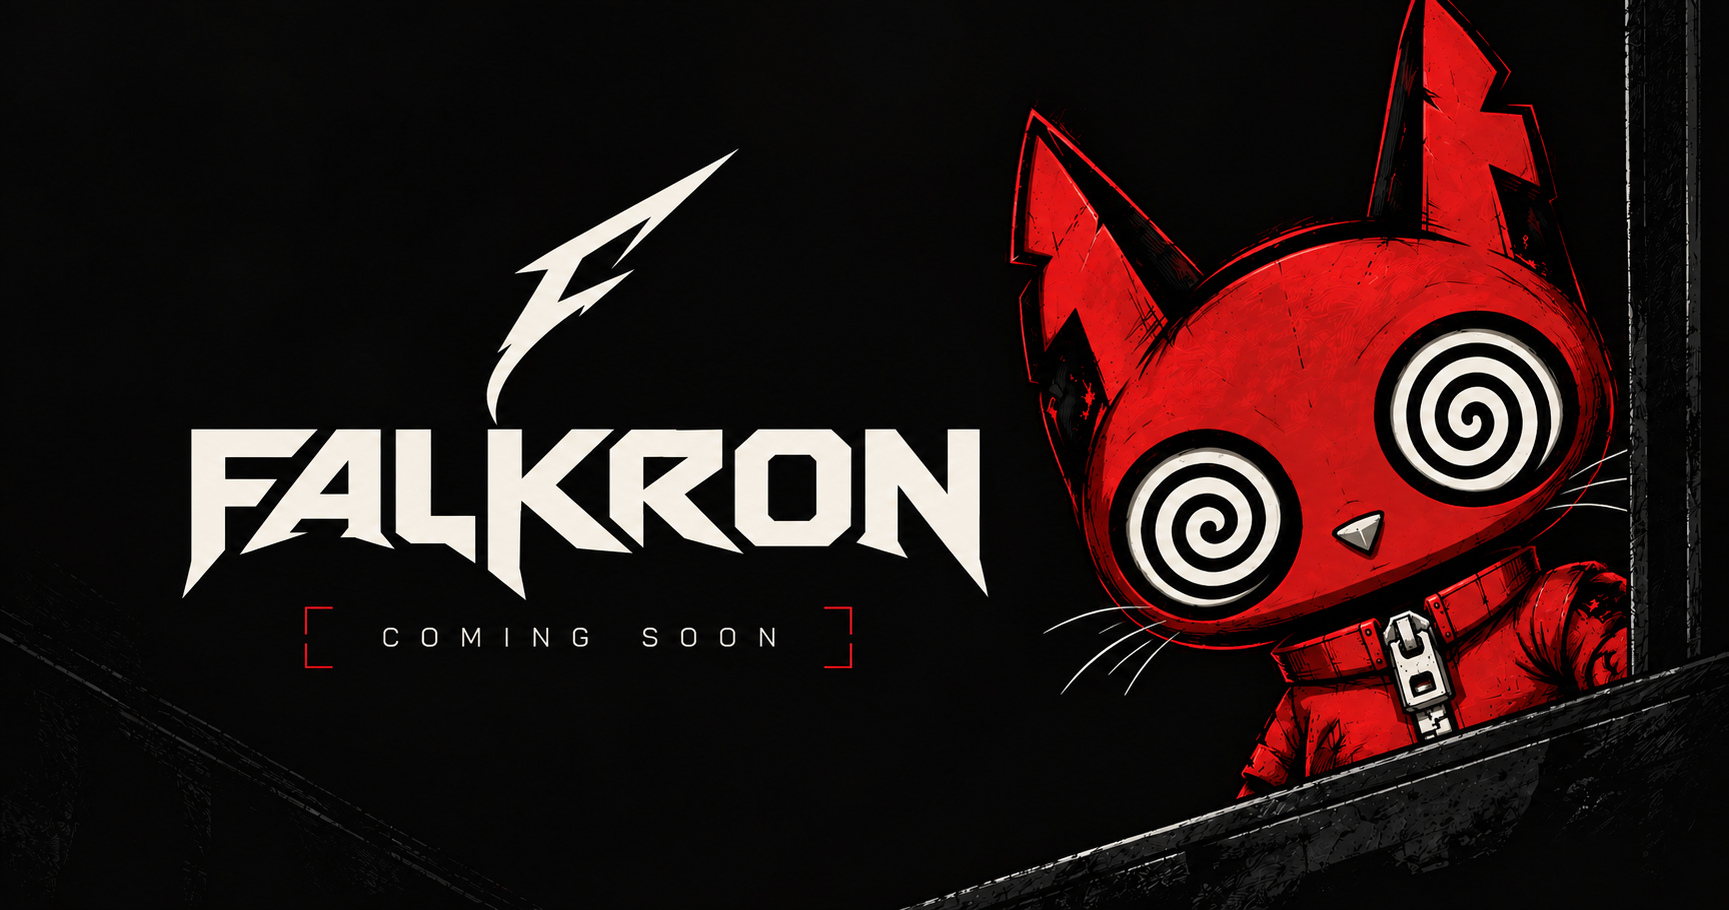
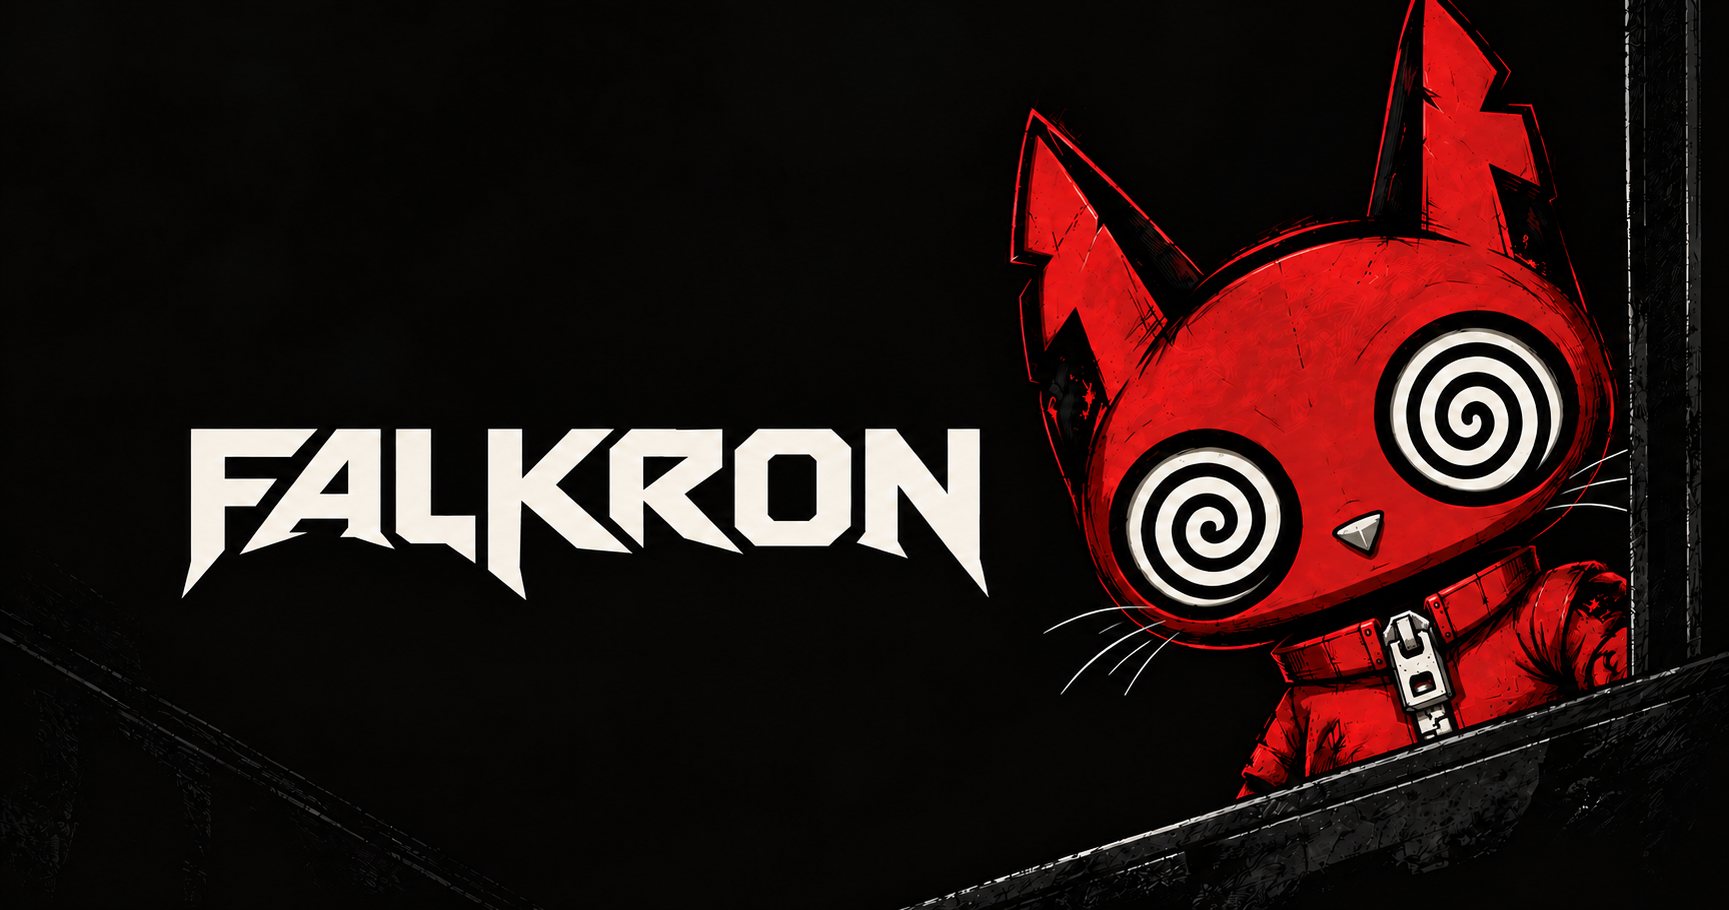
docs: remove texto 'coming soon' da imagem de preview do link

diff --git a/index.html b/index.html
@@ -15,7 +15,7 @@
       href="https://fonts.googleapis.com/css2?family=Chakra+Petch:ital,wght@0,300;0,400;0,500;0,600;0,700;1,300;1,400;1,500;1,600;1,700&family=Jersey+10&family=Oxanium:wght@200..800&family=Space+Grotesk:wght@300..700&display=swap"
       rel="stylesheet"
     />
-    <meta property="og:title" content="Falkron - Coming Soon" />
+    <meta property="og:title" content="Falkron" />
     <meta
       property="og:description"
       content="Acesso interrompido. Continue o protocolo em um terminal compatível."
